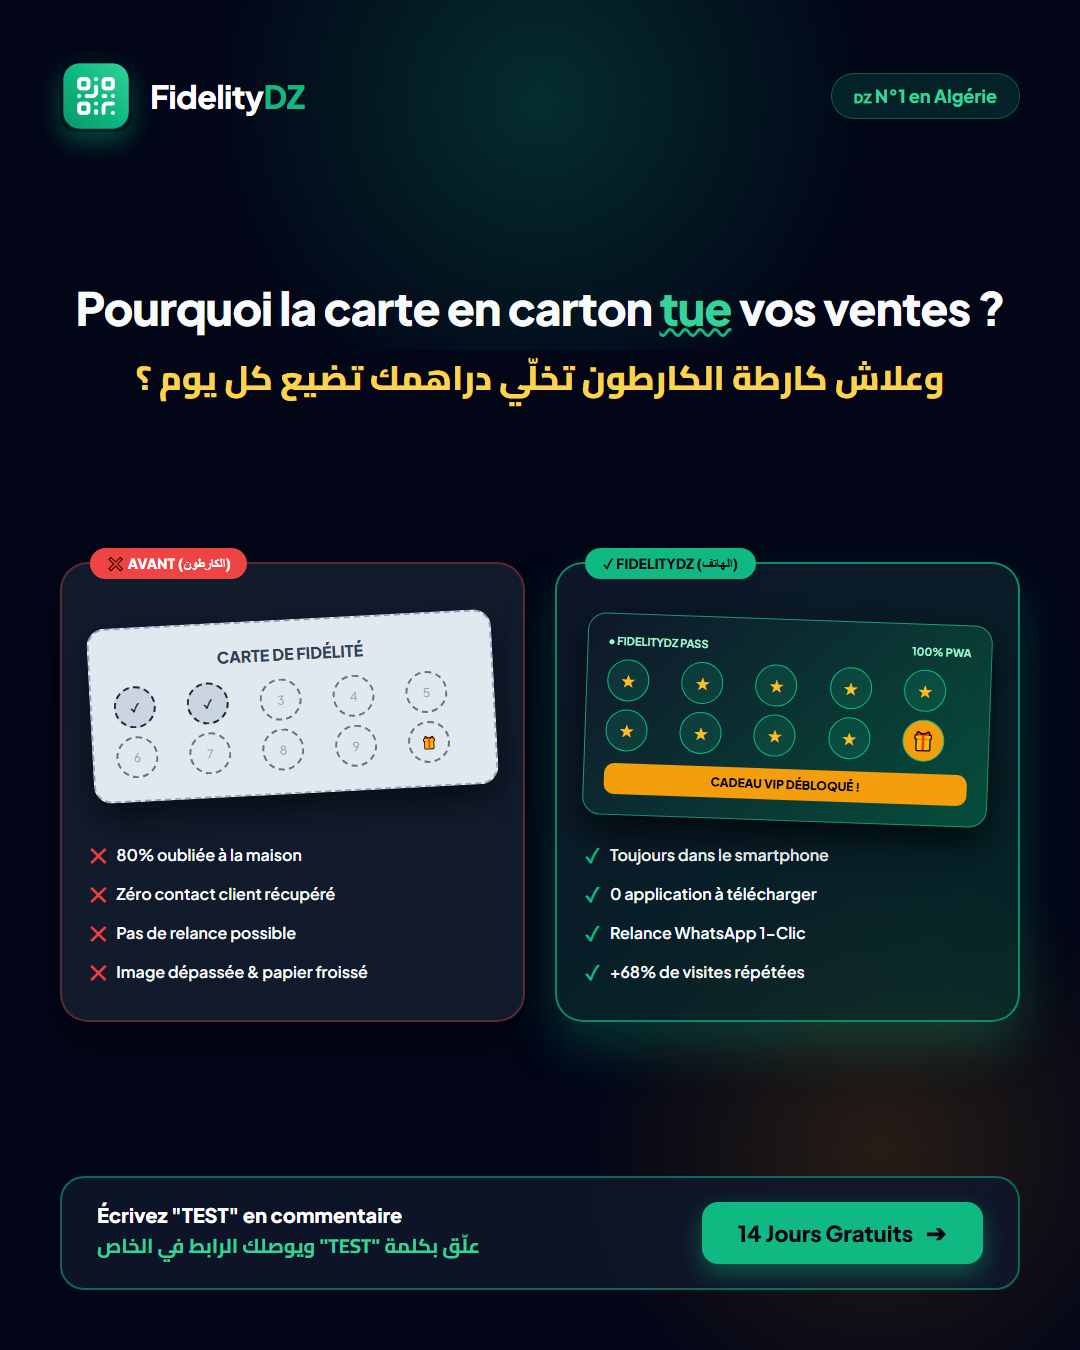
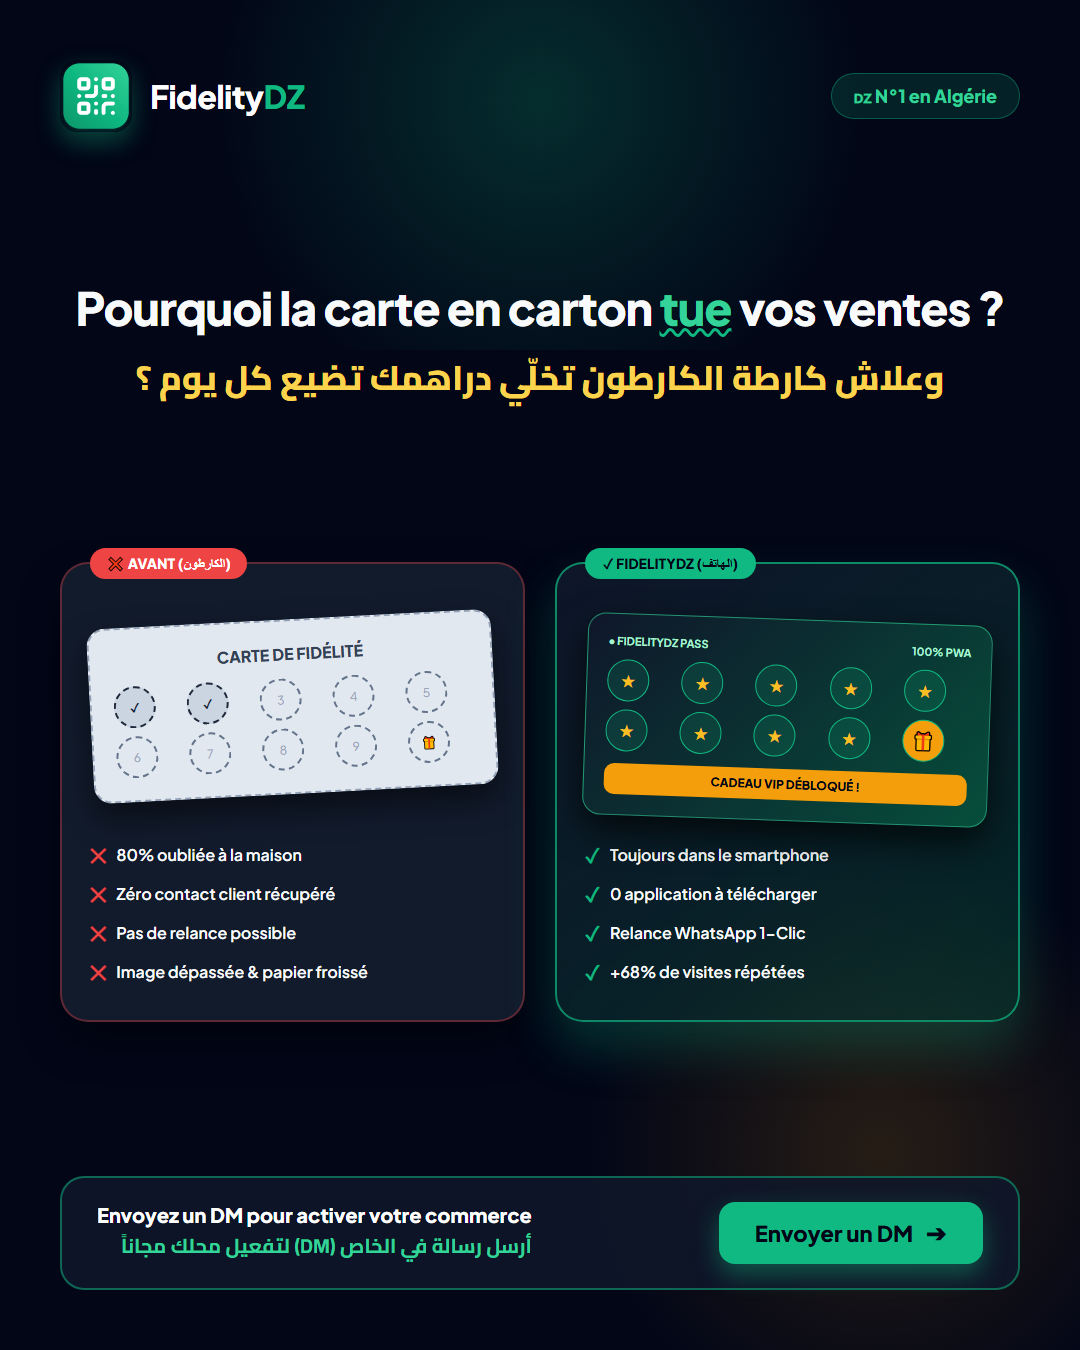
fix(instagram): switch call-to-actions to direct message onboarding and update bio under 150 chars

Changed region(s): [[0.0917, 0.8711, 0.4889, 0.9333], [0.6417, 0.8711, 0.8556, 0.9333]]

diff --git a/.agents/generate_instagram_posts.py b/.agents/generate_instagram_posts.py
@@ -387,11 +387,11 @@ posts = [
   <!-- Footer CTA -->
   <div class="footer-cta">
     <div>
-      <div class="cta-text-fr">Écrivez "TEST" en commentaire</div>
-      <div class="cta-text-ar arabic">علّق بكلمة "TEST" ويوصلك الرابط في الخاص</div>
+      <div class="cta-text-fr">Envoyez un DM pour activer votre commerce</div>
+      <div class="cta-text-ar arabic">أرسل رسالة في الخاص (DM) لتفعيل محلك مجاناً</div>
     </div>
     <div class="cta-button">
-      <span>14 Jours Gratuits</span>
+      <span>Envoyer un DM</span>
       <span>➔</span>
     </div>
   </div>
@@ -677,10 +677,10 @@ posts = [
   <div class="footer-cta">
     <div>
       <div class="cta-title">Activez votre boutique</div>
-      <div class="cta-desc arabic">أرسل رسالة في الخاص لتجربة المنصة في محلك</div>
+      <div class="cta-desc arabic">أرسل رسالة في الخاص لتفعيل المنصة في محلك</div>
     </div>
     <div class="cta-btn">
-      <span>Lien en Bio</span>
+      <span>Envoyer un DM</span>
       <span>➔</span>
     </div>
   </div>
@@ -931,10 +931,10 @@ posts = [
   <div class="footer-cta">
     <div>
       <div class="cta-title">Activez cette option dans votre boutique</div>
-      <div class="cta-desc arabic">أكتب "GOOGLE" في التعليقات ونبعثولك التفاصيل</div>
+      <div class="cta-desc arabic">أرسل رسالة في الخاص ونفعلوهالك مباشرة</div>
     </div>
     <div class="cta-btn">
-      <span>14 Jours Gratuits</span>
+      <span>Envoyer un DM</span>
       <span>➔</span>
     </div>
   </div>

diff --git a/.agents/instagram-marketing-mastery.md b/.agents/instagram-marketing-mastery.md
@@ -6,24 +6,35 @@
 
 ---
 
-## 1. Optimisation du Profil & Bio Haute Conversion (Bio Architecture)
+## 1. Optimisation du Profil & Bio Haute Conversion (Strictement ≤ 150 Caractères)
 
+> **Stratégie Spécifique : Zéro Lien Public dans la Bio**  
+> L'objectif pendant cette phase de test et d'onboarding sur-mesure est de rediriger chaque commerçant vers les **Messages Privés (DM)** pour configurer son compte et lui installer la plateforme en direct.
+
+### Version Bio A (Français - 144 caractères) :
 ```text
-ðŸ‡©ðŸ‡¿ FidelityDZ â€” Carte de FidÃ©litÃ© Digitale
-âš¡ Modernisez votre commerce en AlgÃ©rie | 0 App Ã  installer
-ðŸ“² Vos clients scannent et gardent leur carte dans leur smartphone
-ðŸŽ  +68% de clients fidÃ¨les qui reviennent chez vous
-ðŸŽ‰ 14 Jours d'Essai Gratuit (0 CB requise)
-â¬‡ï¸  CrÃ©ez votre carte en 60 secondes :
-ðŸ”— fidelitydz.vercel.app/register
+🇩🇿 N°1 de la fidélité digitale
+📲 Carte dans le tél | 0 App
+📈 +68% de clients fidèles
+🎁 14 jours d'essai gratuit
+📩 DM pour activer votre boutique
 ```
 
-### Highlights Covers (Les 5 Stories Ã  la Une)
-1. **ðŸ’¡ C'est quoi ?** : PrÃ©sentation animÃ©e en 3 slides du concept (adieu la carte en carton, bonjour le pass smartphone).
-2. **âš¡ En Caisse** : VidÃ©os rÃ©elles de scans au comptoir en 1.2 seconde sur diffÃ©rents tÃ©lÃ©phones.
-3. **â’ Avis CommerÃ§ants** : Captures de messages WhatsApp de gÃ©rants satisfaits (Alger, Oran, SÃ©tif).
-4. **ðŸ’° Tarifs & Packs** : PrÃ©sentation claire du forfait tout compris Ã  3,900 DZD / mois avec paiement BaridiMob / Edahabia.
-5. **ðŸŽ  Essai 14j** : Story avec sticker lien direct vers la page d'inscription.
+### Version Bio B (Darija - 138 caractères) :
+```text
+🇩🇿 N°1 de la fidélité digitale
+📲 كارت في الهاتف | 0 تطبيق
+📈 زبائن أوفياء يرجعوا لمحلك
+🎁 14 يوم تجربة مجانية
+📩 أرسل DM في الخاص لتفعيل محلك
+```
+
+### Highlights Covers (Les 5 Stories à la Une)
+1. **💡 C'est quoi ?** : Présentation du concept en 3 slides (la carte digitale dans le smartphone).
+2. **⚡ En Caisse** : Vidéos réelles de scans au comptoir en 1.2 seconde.
+3. **⭐ Avis** : Retours et captures de conversations de commerçants ravis.
+4. **🛠 Installation** : Explication de comment on installe la plateforme pour le commerçant en 5 minutes.
+5. **📩 Activer mon Shop** : Story invitant à envoyer un DM direct pour tester la plateforme gratuitement.
 
 ---
 
@@ -71,22 +82,22 @@ Fond Sombre & Vert Ã‰meraude  Fond Blanc / CrÃ¨me & Vert    Fond Vert Ã‰
 - **Slide 3 :** *Â« Le systÃ¨me FidelityDZ : rÃ©compensez les avis positifs Â»* -> Proposez +1 tampon cadeau automatique pour chaque avis laissÃ©.
 - **Slide 4 :** *Â« Un flux rÃ©gulier d'avis vÃ©rifiÃ©s Â»* -> Votre commerce monte en premiÃ¨re position dans votre wilaya.
 - **Slide 5 :** *Â« RÃ©sultat : plus de visibilitÃ© = plus de nouveaux clients. Â»*
-- **Slide 6 :** *Â« Enregistrez ce post pour l'appliquer dans votre boutique ! Lien dans la bio @fidelity.dz Â»*
+- **Slide 6 :** *« Enregistrez ce post ! Envoyez-nous un DM pour activer cette option gratuitement dans votre boutique @fidelity.dz »*
 
 ---
 
-## 5. Scripts de Reels Viraux (PrÃªts pour Tournage Smartphone)
+## 5. Scripts de Reels Viraux (Prêts pour Tournage Smartphone)
 
-### Reel 1 : "La VÃ©ritÃ© sur les Cartes en Papier" (DurÃ©e : 28s)
-- **Cadrage :** Face camÃ©ra dynamique au comptoir d'un magasin.
+### Reel 1 : "La Vérité sur les Cartes en Papier" (Durée : 28s)
+- **Cadrage :** Face caméra dynamique au comptoir d'un magasin.
 - **Hook (0-3s) :** *(En jetant une carte en carton sur la table)*  
-  *Â« Si vous donnez encore cette carte Ã  vos clients en AlgÃ©rie... vous jetez votre argent par la fenÃªtre ! Â»*
-- **DÃ©veloppement (3-18s) :**  
-  *Â« Pourquoi ? Parce que 80% des clients la perdent dans une autre veste, ou la jettent. RÃ©sultat : ils ne reviennent pas.  
-  Mais regardez Ã§a : avec FidelityDZ, le client scanne votre QR code avec son tÃ©lÃ©phone... ZÃ©ro application Ã  tÃ©lÃ©charger ! La carte s'affiche direct avec ses tampons et son cadeau. Â»*
+  *« Si vous donnez encore cette carte à vos clients en Algérie... vous jetez votre argent par la fenêtre ! »*
+- **Développement (3-18s) :**  
+  *« Pourquoi ? Parce que 80% des clients la perdent dans une autre veste, ou la jettent. Résultat : ils ne reviennent pas.  
+  Mais regardez ça : avec FidelityDZ, le client scanne votre QR code avec son téléphone... Zéro application à télécharger ! La carte s'affiche direct avec ses tampons et son cadeau. »*
 - **Conclusion & CTA (18-28s) :**  
-  *Â« En 1 seconde Ã  la caisse, vous fidÃ©lisez votre client pour toujours.  
-  Envie de moderniser votre commerce ? Essayez FidelityDZ gratuitement pendant 14 jours. Lien en bio ! Â»*
+  *« En 1 seconde à la caisse, vous fidélisez votre client pour toujours.  
+  Envie de tester dans votre commerce ? Envoyez-nous un DM en privé pour qu'on vous active votre compte gratuitement ! »*
 
 ---
 
